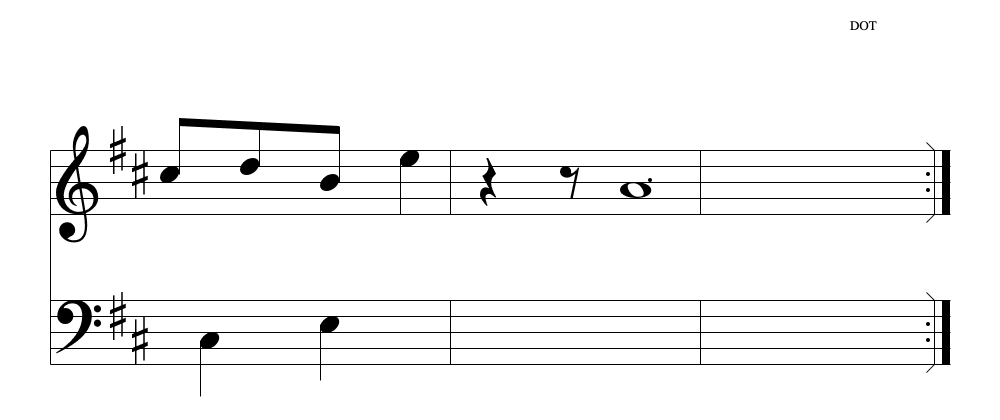
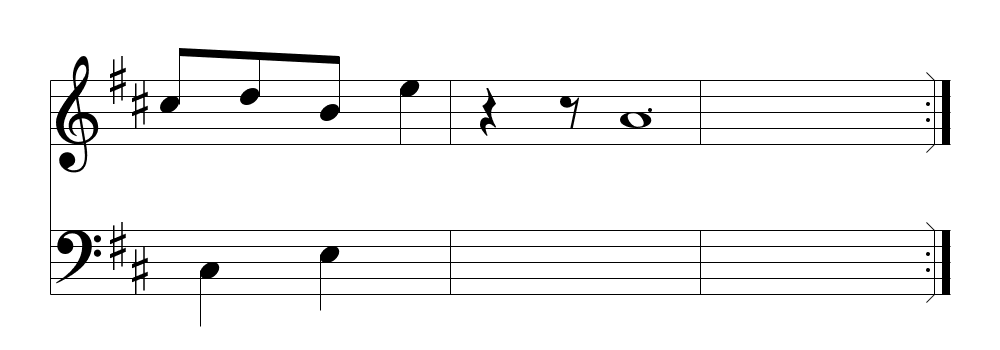
README: crop the editor screenshot and add the course's notation example

diff --git a/README.md b/README.md
@@ -7,7 +7,11 @@ uses it to enter music notation with compass gestures. This repo ports every
 step of that course to the browser and presents the lessons, the working demo
 for each step, and the finished editor as a static site.
 
-![A short score entered with gestures: two staffs, clefs, a key signature, a beamed group, rests and repeat dots](assets/screenshot.png)
+![A short score entered with gestures in the editor: two staffs, clefs, a key signature, a beamed group, rests and repeat dots](assets/screenshot.png)
+
+*Above: a score entered with gestures in the finished editor. Below: the notation example from the course, showing everything it sets out to draw.*
+
+![The course's page of music notation: staffs, clefs, key and time signatures, heads, stems, beams, rests, dynamics](assets/musicItems.jpg)
 
 - **Site:** https://larsbrubaker.github.io/music-editor/
 - **Original course:** https://depts.washington.edu/cprogs/BCS/Books/BCS_MidJava.html
